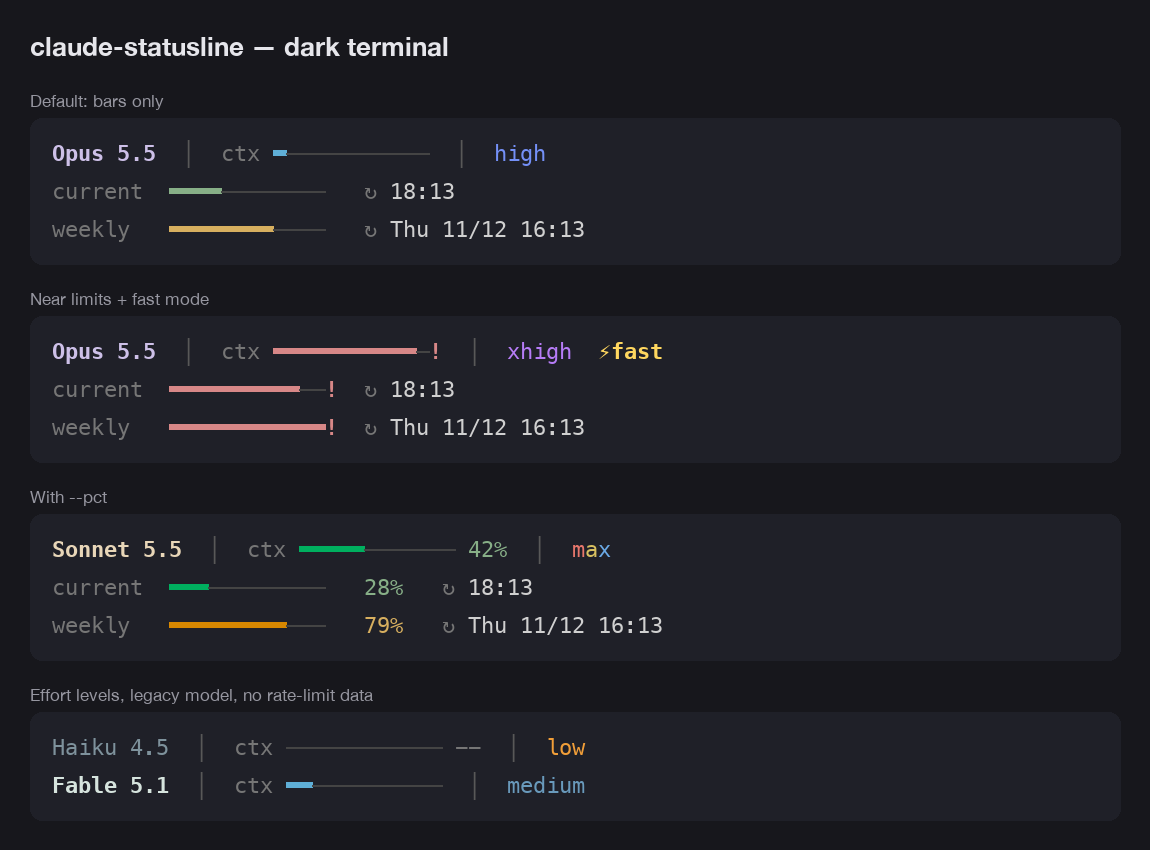
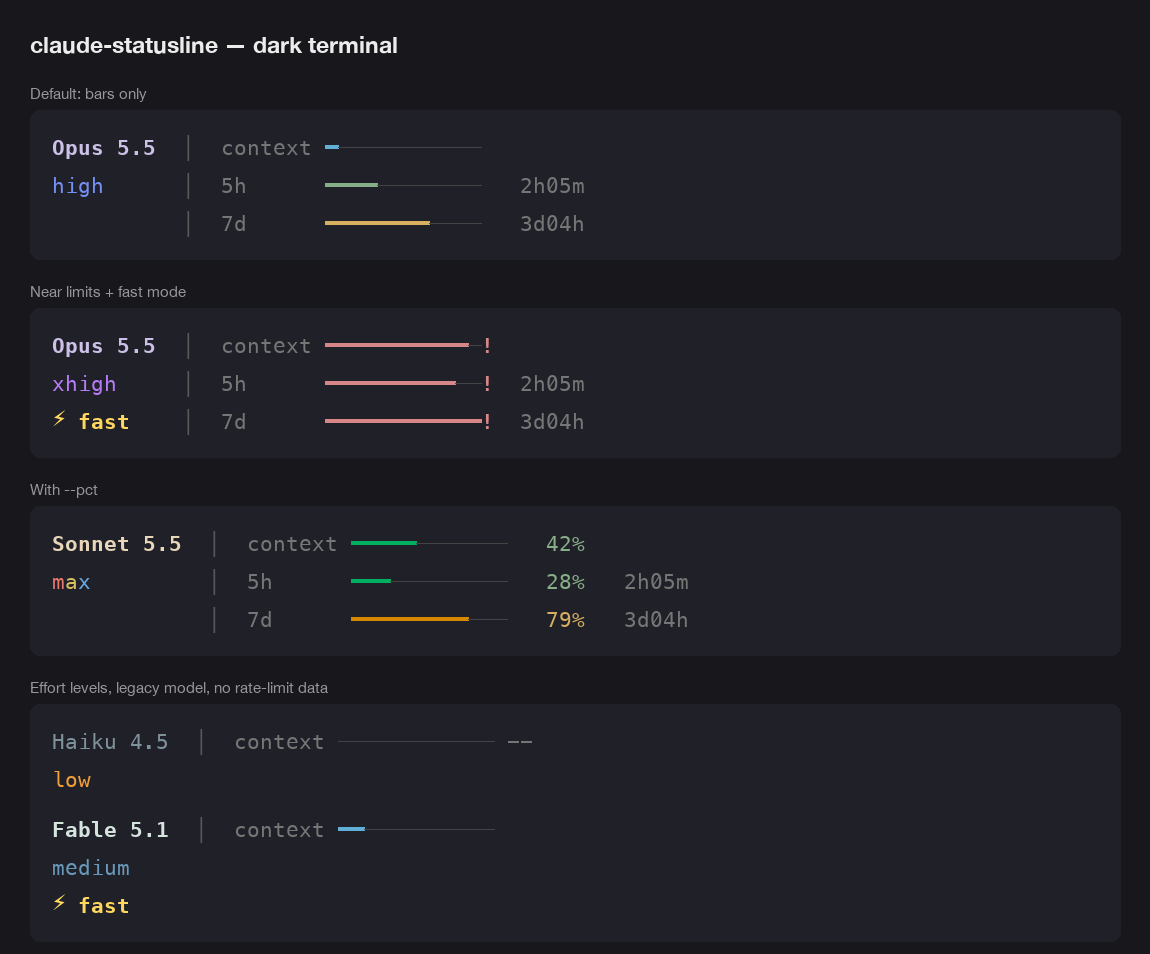
Two-column layout with aligned gauges and time left until reset
- Left column stacks the model, effort and ⚡fast (shown only when on).
- Right column aligns three bars: context (was ctx), 5h (was current)
  and 7d (was weekly).
- Rate limits show the time left until reset in gray (42m, 2h05m,
  3d04h) instead of the reset clock time.
- Rows with an empty left cell start with U+2800, because Claude Code
  trims leading whitespace (NBSP included) and the 7d row shifted left.
- README (both languages) and docs previews updated.

diff --git a/statusline.c b/statusline.c
@@ -1,11 +1,12 @@
 /*
  * Claude Code statusline — fast, dependency-free C.
  *
- *   Opus 5.5  │  ctx ━━━━━─────── 42%  │  high  ⚡fast
- *   current  ━━━─────────   28%   ↻ 19:00
- *   weekly   ━━━━━━━━━━──   86%!  ↻ Thu 11/12 10:00
+ *   Opus 5.5  │  context ━━━━━───────
+ *   high      │  5h      ━━━━━━━━────   2h05m
+ *   ⚡fast     │  7d      ━━━━━━━━━━━─!  3d04h
  *
- * Reads the statusLine JSON payload on stdin and prints up to three lines.
+ * Reads the statusLine JSON payload on stdin and prints up to three lines in two
+ * columns: model and effort on the left, three aligned gauges on the right.
  * The flags are chosen once at install time (setup.sh writes them into the
  * statusLine command in ~/.claude/settings.json).
  * Build: cc -O2 -o statusline statusline.c
@@ -304,28 +305,57 @@ static void put_value(int p, int width, int pad) {
     else if (pad)     putchar(' ');
 }
 
-/* one rate-limit line; win is the object at rate_limits.<window> */
-static void put_limit(const char *win, const char *label, int long_fmt) {
-    double raw, reset;
-    if (!win || !get_num(win, "used_percentage", &raw)) return;
-    int p = pct_round(raw);
+/* gauge label, padded so all three bars start in the same column */
+static void put_label(const char *label) { printf("%s%-7s" RST " ", P->dim, label); }
 
-    printf("\n%s%-8s" RST " ", P->dim, label);
+/* context row: "context ━━━━━───────" (unknown: "--") */
+static void put_ctx(const char *json) {
+    double raw = 0;
+    int has = get_num(json, "context_window.used_percentage", &raw);
+    int p = pct_round(raw);
+    put_label("context");
+    put_bar(p, raw, has);
+    if (show_pct) fputs("  ", stdout);
+    if (!has) printf("%s%s" RST, P->dim, show_pct ? " --%" : " --");
+    else      put_value(p, 3, 0);
+}
+
+/*
+ * Time left until resets_at: "42m", "2h05m", "3d04h". Minutes round up, so
+ * it never reads 0m while the limit is still in force. Absurd timestamps
+ * are skipped.
+ */
+static int fmt_left(const char *win, char *buf, size_t cap) {
+    double reset;
+    if (!get_num(win, "resets_at", &reset) || reset < 0 || reset > 1e11) return 0;
+    double s = reset - (double)time(NULL);
+    long m = s <= 0 ? 0 : (long)((s + 59) / 60);
+    long d = m / 1440, h = m / 60 % 24;
+    if (d)           snprintf(buf, cap, "%ldd%02ldh", d, h);
+    else if (m >= 60) snprintf(buf, cap, "%ldh%02ldm", h, m % 60);
+    else             snprintf(buf, cap, "%ldm", m);
+    return 1;
+}
+
+/* one rate-limit row; win is the object at rate_limits.<window> */
+static void put_limit(const char *win, const char *label) {
+    double raw;
+    get_num(win, "used_percentage", &raw); /* checked by the caller */
+    int p = pct_round(raw);
+    put_label(label);
     put_bar(p, raw, 1);
     if (show_pct) fputs("  ", stdout);
     put_value(p, 3, 1);
-
-    /* skip absurd timestamps: converting them to time_t would be undefined */
-    if (!get_num(win, "resets_at", &reset) || reset < 0 || reset > 1e11) return;
-    time_t t = (time_t)reset, now = time(NULL);
-    struct tm rt, nt;
-    if (!localtime_r(&t, &rt) || !localtime_r(&now, &nt)) return;
     char buf[32];
-    const char *fmt = long_fmt ? "%a %m/%d %H:%M"
-                    : (rt.tm_yday == nt.tm_yday && rt.tm_year == nt.tm_year) ? "%H:%M"
-                    : "%a %H:%M";
-    strftime(buf, sizeof buf, fmt, &rt);
-    printf("%s  ↻ %s%s" RST, P->dim, P->text, buf);
+    if (fmt_left(win, buf, sizeof buf))
+        printf("  %s%5s" RST, P->dim, buf);
+}
+
+/* display width of a UTF-8 string (one cell per code point) */
+static int u8width(const char *s) {
+    int n = 0;
+    for (; *s; s++) n += ((unsigned char)*s & 0xC0) != 0x80;
+    return n;
 }
 
 /* read stdin into a NUL-terminated heap buffer (NULL on failure) */
@@ -361,34 +391,57 @@ int main(int argc, char **argv) {
     char *json = read_all(stdin);
     if (!json) return 1;
 
-    /* line 1: model │ ctx │ effort fast */
+    /*
+     * Two columns:  model   │  context ━━━━───
+     *               effort  │  5h      ━━────   2h05m
+     *               ⚡fast   │  7d      ━━━━━─   3d04h
+     * The left cells stack up, so a missing effort moves ⚡fast up a row.
+     */
     char model[128], effort[32];
     if (!get_str(json, "model.display_name", model, sizeof model)) strcpy(model, "Claude");
-    put_model(model);
-    put_sep();
-    printf("%sctx " RST, P->dim);
-
-    double raw = 0;
-    int has_ctx = get_num(json, "context_window.used_percentage", &raw);
-    int ctx = pct_round(raw);
-    put_bar(ctx, raw, has_ctx);
-    if (!has_ctx)      printf("%s --%s" RST, P->dim, show_pct ? "%" : "");
-    else { if (show_pct) putchar(' '); put_value(ctx, 1, 0); }
-
     int has_eff = get_str(json, "effort.level", effort, sizeof effort);
     int fast = get_true(json, "fast_mode");
-    if (has_eff || fast) put_sep();
-    if (has_eff) put_effort(effort);
-    if (fast) printf("%s%s⚡fast" RST, has_eff ? "  " : "", P->fast);
 
-    /* lines 2–3: rate limits (only when present) */
+    /* rate-limit rows, only for windows that are present */
+    static const char *const WIN[2][2] = { { "five_hour", "5h" }, { "seven_day", "7d" } };
+    const char *lim[2], *lab[2];
+    int nlim = 0;
     const char *rl = get(json, "rate_limits");
-    if (rl) {
-        put_limit(get(rl, "five_hour"), "current", 0);
-        put_limit(get(rl, "seven_day"), "weekly", 1);
+    for (int i = 0; rl && i < 2; i++) {
+        const char *w = get(rl, WIN[i][0]);
+        double tmp;
+        if (w && get_num(w, "used_percentage", &tmp)) { lim[nlim] = w; lab[nlim++] = WIN[i][1]; }
     }
 
-    putchar('\n');
+    /* left column: model, effort, ⚡fast (two cells for ⚡), stacked */
+    enum { L_MODEL, L_EFF, L_FAST };
+    int left[3], lwid[3], nleft = 0;
+    left[nleft] = L_MODEL; lwid[nleft++] = u8width(model);
+    if (has_eff) { left[nleft] = L_EFF;  lwid[nleft++] = (int)strlen(effort); }
+    if (fast)    { left[nleft] = L_FAST; lwid[nleft++] = 6; }
+    int lw = 0;
+    for (int i = 0; i < nleft; i++) if (lwid[i] > lw) lw = lwid[i];
+    int rows = 1 + nlim > nleft ? 1 + nlim : nleft;
+
+    for (int r = 0; r < rows; r++) {
+        int w = 0;
+        if (r < nleft) {
+            if      (left[r] == L_MODEL) put_model(model);
+            else if (left[r] == L_EFF)   put_effort(effort);
+            else                         printf("%s⚡fast" RST, P->fast);
+            w = lwid[r];
+        }
+        if (r > nlim) { putchar('\n'); continue; } /* no gauge on this row */
+        /* Claude Code trims leading whitespace (no-break space included),
+         * so a row with an empty left column starts with U+2800 BRAILLE
+         * PATTERN BLANK: one blank cell that trim() does not count as space */
+        if (w == 0 && lw > 0) { fputs("\xe2\xa0\x80", stdout); w = 1; }
+        printf("%*s", lw - w, "");
+        put_sep();
+        if (r == 0) put_ctx(json);
+        else        put_limit(lim[r - 1], lab[r - 1]);
+        putchar('\n');
+    }
     free(json);
     return 0;
 }

diff --git a/README.md b/README.md
@@ -7,17 +7,17 @@ One ~50 KB binary with no dependencies (no `jq`, Node, or Python at run time). E
 You pick the palette once at install time, and severity is never shown by color alone.
 
 ```
-Opus 5.5  │  ctx ━━━━━───────  │  high  ⚡fast
-current  ━━━━━━━━────   ↻ 17:04
-weekly   ━━━━━━━━━━━─!  ↻ Thu 11/12 15:04
+Opus 5.5  │  context ━━━━━───────
+high      │  5h      ━━━━━━━━────   2h05m
+⚡fast    │  7d      ━━━━━━━━━━━─!  3d04h
 ```
 
 With `--pct`, the percentages are printed too:
 
 ```
-Opus 5.5  │  ctx ━━━━━─────── 42%  │  high  ⚡fast
-current  ━━━━━━━━────   65%   ↻ 17:04
-weekly   ━━━━━━━━━━━─   88%!  ↻ Thu 11/12 15:04
+Opus 5.5  │  context ━━━━━───────   42%
+high      │  5h      ━━━━━━━━────   65%   2h05m
+⚡fast    │  7d      ━━━━━━━━━━━─   88%!  3d04h
 ```
 
 | Dark terminal | Light terminal (`--light`) |
@@ -69,14 +69,13 @@ Add this to `~/.claude/settings.json` with the flags you want:
 
 ## What it shows
 
-| Line | Content |
+| Column | Content |
 |---|---|
-| 1 | Model name · context window bar · reasoning effort (`low` … `max`) · `⚡fast` when fast mode is on |
-| 2 | **current**: 5-hour rate-limit usage and reset time |
-| 3 | **weekly**: 7-day rate-limit usage and reset date and time |
+| Left | Model name, then the reasoning effort (`low` … `max`), then `⚡fast` when fast mode is on |
+| Right | Three aligned bars: **context** (context window), **5h** (5-hour rate limit), **7d** (7-day rate limit), each limit with the time left until it resets, in gray |
 
-- Lines 2 and 3 appear only when Claude Code sends rate-limit data (claude.ai Pro/Max subscribers, after the first response of a session).
-- A reset later today shows just the time. A later day adds the weekday.
+- The 5h and 7d bars appear only when Claude Code sends rate-limit data (claude.ai Pro/Max subscribers, after the first response of a session).
+- The time left is `42m` under an hour, `2h05m` under a day, and `3d04h` beyond that.
 - Missing fields degrade gracefully. For example, early in a session the context shows `--` (`--%` with `--pct`).
 
 ## Colors

diff --git a/README_한국어.md b/README_한국어.md
@@ -7,17 +7,17 @@
 팔레트는 설치할 때 한 번 고르며, 상태를 색만으로 표시하지 않습니다.
 
 ```
-Opus 5.5  │  ctx ━━━━━───────  │  high  ⚡fast
-current  ━━━━━━━━────   ↻ 17:04
-weekly   ━━━━━━━━━━━─!  ↻ Thu 11/12 15:04
+Opus 5.5  │  context ━━━━━───────
+high      │  5h      ━━━━━━━━────   2h05m
+⚡fast    │  7d      ━━━━━━━━━━━─!  3d04h
 ```
 
 `--pct`를 붙이면 퍼센트 숫자도 함께 표시합니다.
 
 ```
-Opus 5.5  │  ctx ━━━━━─────── 42%  │  high  ⚡fast
-current  ━━━━━━━━────   65%   ↻ 17:04
-weekly   ━━━━━━━━━━━─   88%!  ↻ Thu 11/12 15:04
+Opus 5.5  │  context ━━━━━───────   42%
+high      │  5h      ━━━━━━━━────   65%   2h05m
+⚡fast    │  7d      ━━━━━━━━━━━─   88%!  3d04h
 ```
 
 | 어두운 터미널 | 밝은 터미널 (`--light`) |
@@ -69,14 +69,13 @@ make install
 
 ## 표시 내용
 
-| 줄 | 내용 |
+| 열 | 내용 |
 |---|---|
-| 1 | 모델 이름, 컨텍스트 사용률 바, effort(`low` … `max`), fast 모드일 때 `⚡fast` |
-| 2 | **current**: 5시간 사용량과 리셋 시각 |
-| 3 | **weekly**: 7일 사용량과 리셋 날짜·시각 |
+| 왼쪽 | 위에서부터 모델 이름, effort(`low` … `max`), fast 모드일 때 `⚡fast` |
+| 오른쪽 | 정렬된 바 3개: **context**(컨텍스트 사용률), **5h**(5시간 사용량), **7d**(7일 사용량). 사용량 바 옆에는 리셋까지 남은 시간(회색) |
 
-- 2·3번째 줄은 Claude Code가 rate limit 정보를 넘겨줄 때만 표시됩니다(claude.ai Pro/Max 구독, 세션의 첫 응답 이후).
-- 리셋이 오늘이면 시각만, 다른 날이면 요일까지 표시합니다.
+- 5h·7d 바는 Claude Code가 rate limit 정보를 넘겨줄 때만 표시됩니다(claude.ai Pro/Max 구독, 세션의 첫 응답 이후).
+- 남은 시간은 1시간 미만이면 `42m`, 하루 미만이면 `2h05m`, 그 이상이면 `3d04h`로 표시합니다.
 - 필드가 없어도 문제없이 표시합니다. 예를 들어 세션 초반에는 컨텍스트가 `--`(`--pct`면 `--%`)로 표시됩니다.
 
 ## 색
